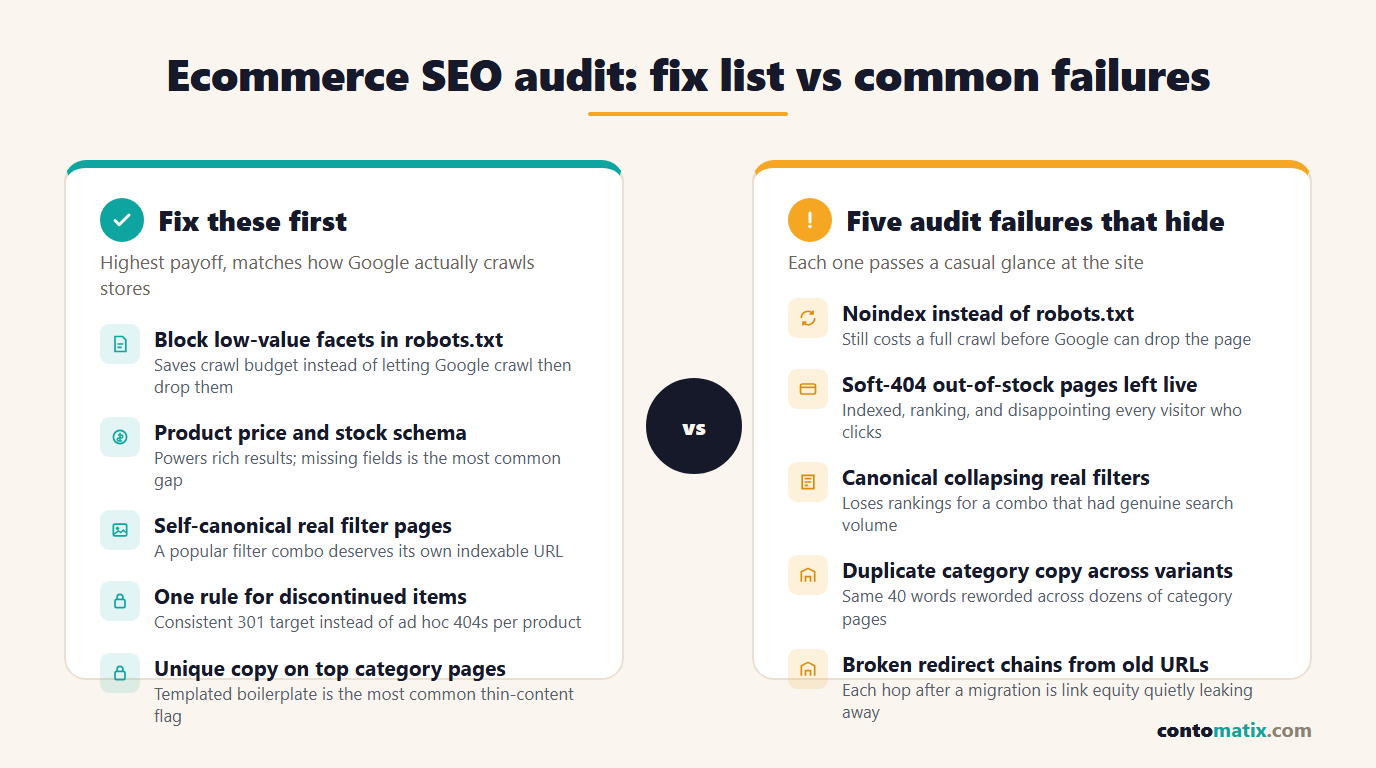
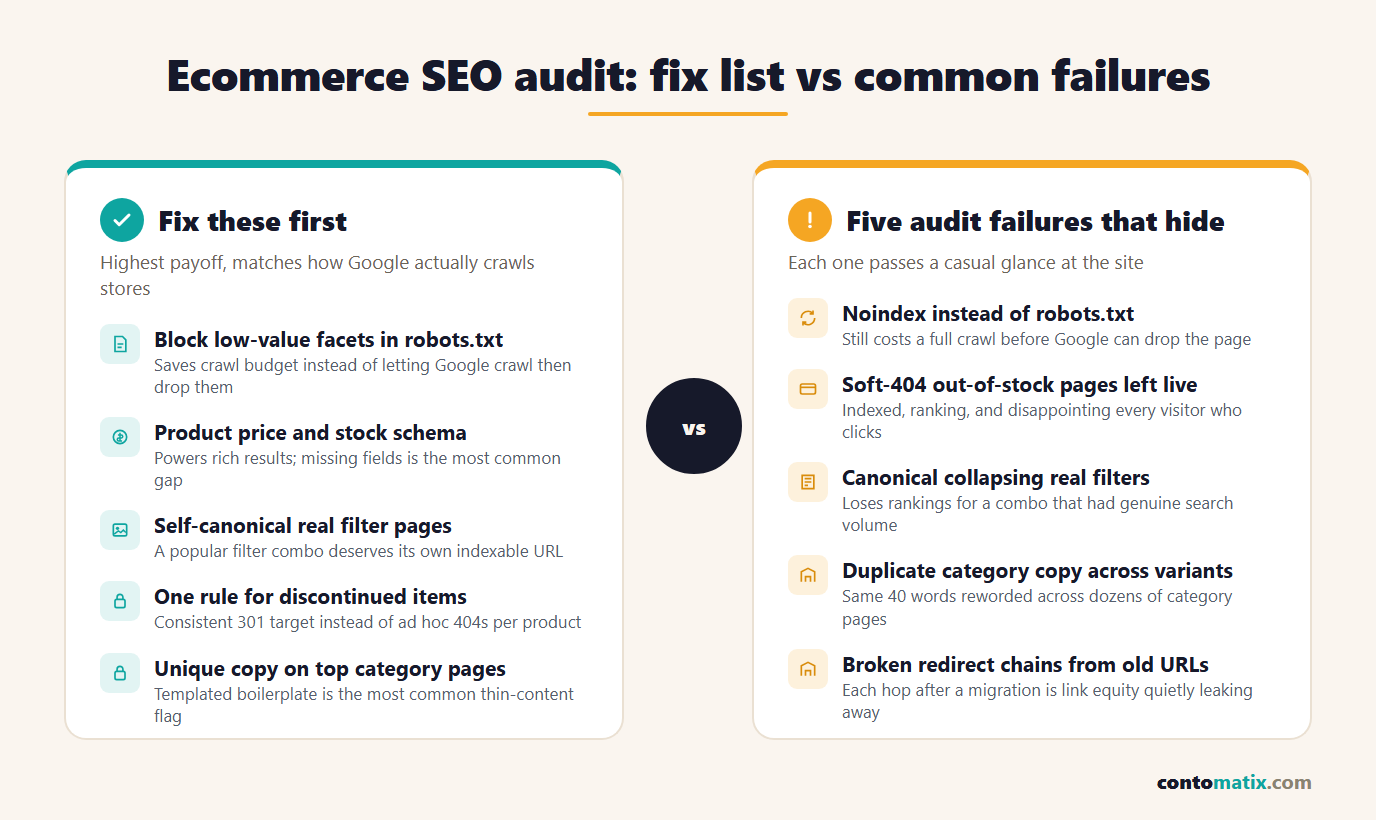
Fix messy tool screenshots and infographic sizing on 2 posts
Both proof screenshots (hreflang-spanish, robots-txt-sitemap) had the
sticky nav bar overlapping the tool UI and unrelated trailing content
bleeding into frame from an uncropped full-page capture; replaced with
clean element-clipped screenshots. Also added a separating paragraph
between two back-to-back <figure> images on robots-txt-sitemap, and
gave the ecommerce-seo-audit infographic more card height so its
5-item column isn't cramped against the border.

diff --git a/server.js b/server.js
@@ -205,7 +205,7 @@ app.use((req, res, next) => {
 
 app.get('/sitemap.xml', (req, res) => {
   const today = new Date().toISOString().slice(0, 10);
-  const staticPaths = ['/', '/about', '/team', '/contact', '/blog', '/services', '/privacy-policy', '/terms', '/tools', '/tools/llms-txt-generator', '/tools/schema-markup-generator', '/tools/serp-snippet-preview', '/tools/readability-checker', '/tools/robots-txt-generator', '/tools/utm-builder', '/tools/og-preview-generator', '/tools/meta-tag-generator', '/tools/sitemap-generator', '/tools/hreflang-generator', '/tools/sitemap-validator', '/tools/invoice-generator'];
+  const staticPaths = ['/', '/about', '/team', '/contact', '/blog', '/services', '/privacy-policy', '/terms', '/tools', '/tools/llms-txt-generator', '/tools/schema-markup-generator', '/tools/serp-snippet-preview', '/tools/readability-checker', '/tools/robots-txt-generator', '/tools/utm-builder', '/tools/og-preview-generator', '/tools/meta-tag-generator', '/tools/sitemap-generator', '/tools/hreflang-generator', '/tools/sitemap-validator', '/tools/llm-seo-checker', '/tools/invoice-generator'];
   const urls = [
     ...staticPaths.map(u => ({ loc: u, lastmod: today })),
     ...services.map(s => ({ loc: `/services/${s.slug}`, lastmod: today })),
@@ -389,6 +389,14 @@ app.get('/tools/sitemap-validator', (req, res) => {
   res.render('pages/sitemap-validator', {
     title: 'Free Sitemap Validator — Check a sitemap.xml for Errors | Contomatix',
     description: 'Check a sitemap.xml file for structural errors, invalid URLs, duplicates, and limit violations, for free, in seconds.',
+    pageClass: 'page-tool'
+  });
+});
+
+app.get('/tools/llm-seo-checker', (req, res) => {
+  res.render('pages/llm-seo-checker', {
+    title: 'Free LLM SEO Checker — AI Crawler Access Audit | Contomatix',
+    description: 'Check which AI crawlers (GPTBot, ClaudeBot, PerplexityBot, Google-Extended, Applebot-Extended) your robots.txt allows or blocks, for free, in seconds.',
     pageClass: 'page-tool'
   });
 });

diff --git a/data/tools.js b/data/tools.js
@@ -57,6 +57,11 @@ module.exports = [
     summary: 'Check a sitemap.xml file for structural errors, invalid URLs, duplicates, and limit violations — for free, in seconds.'
   },
   {
+    slug: 'llm-seo-checker',
+    title: 'LLM SEO Checker',
+    summary: 'Check which AI crawlers (GPTBot, ClaudeBot, PerplexityBot, Google-Extended) your robots.txt allows or blocks — for free, in seconds.'
+  },
+  {
     slug: 'invoice-generator',
     title: 'Invoice Generator & Template',
     summary: 'A free freelance invoice template that generates a professional, itemized PDF in seconds — no signup, nothing leaves your browser.'
